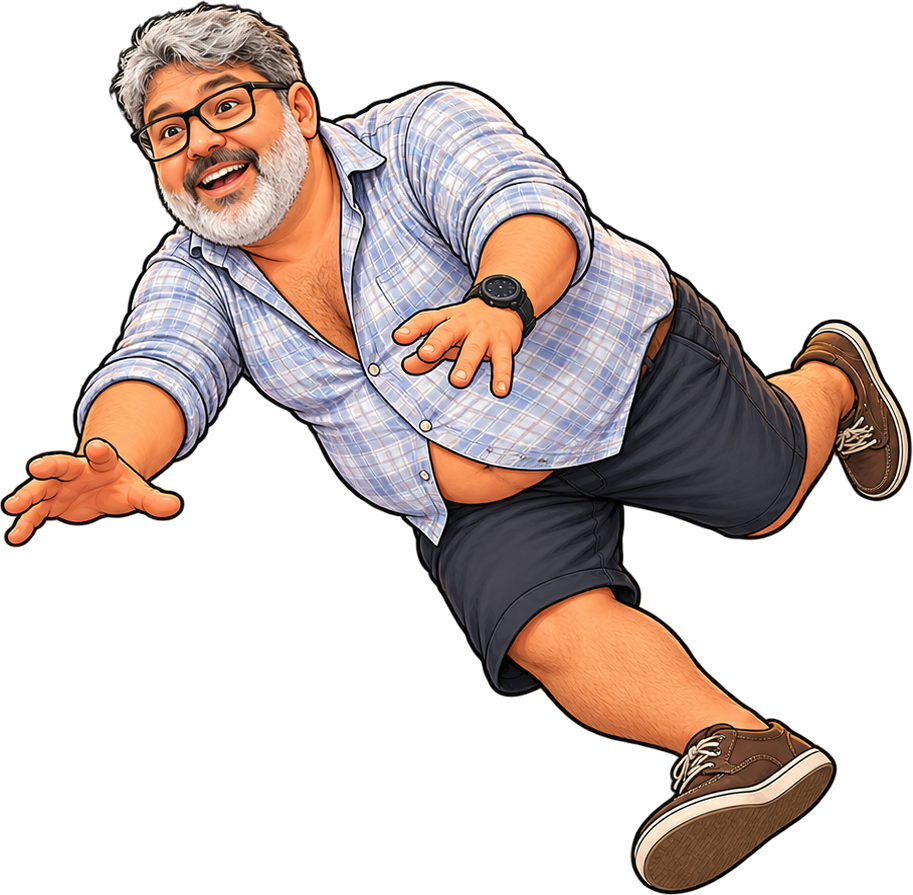
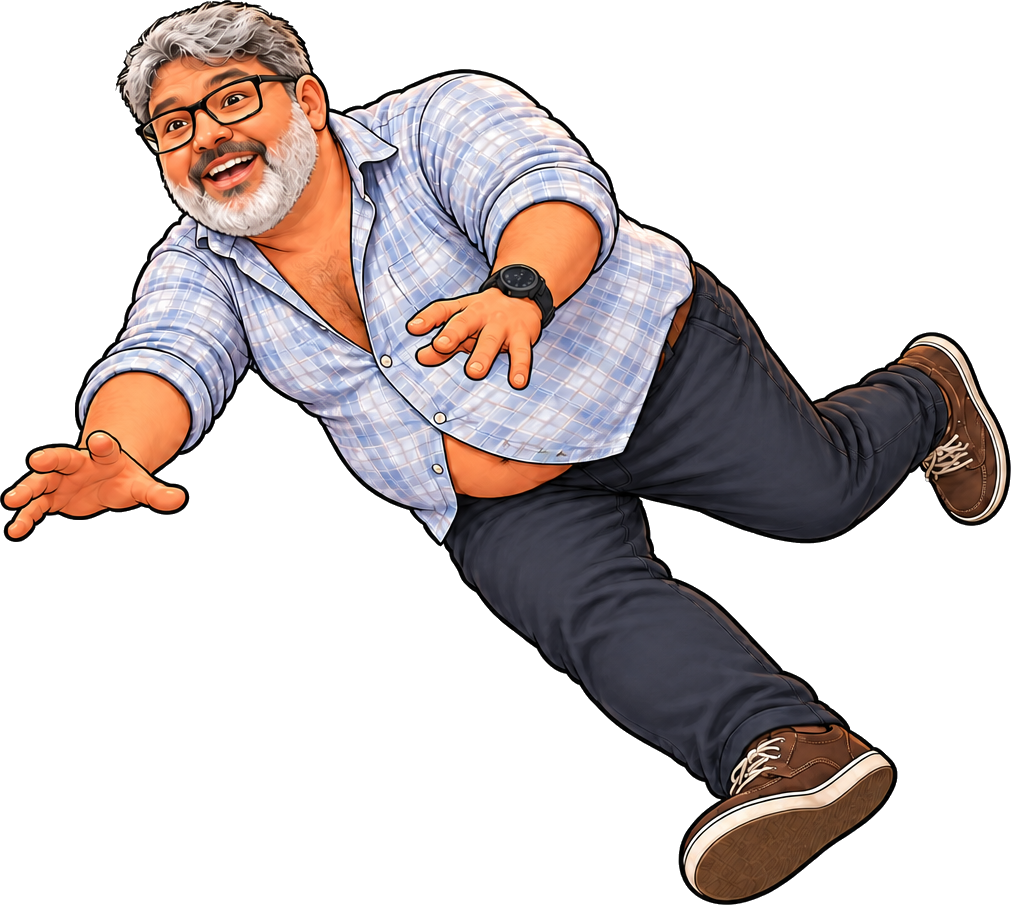
fix: normalize Ginaldo poses and walking direction

diff --git a/src/pages/BarGame.tsx b/src/pages/BarGame.tsx
@@ -158,7 +158,7 @@ export default function BarGame() {
     ginaldoWalker.src = "/bar-game/ginaldo-apoiador-sprites.png";
     walkerSpriteRefs.current.ginaldo = ginaldoWalker;
     ginaldoWalker.onload = () => {
-      walkerFramesRef.current.ginaldo = [1, 2, 3, 4].map((column) => isolatePerson(ginaldoWalker, column, 5, 0, 1.35));
+      walkerFramesRef.current.ginaldo = [0, 1, 2, 1].map((column) => isolatePerson(ginaldoWalker, column, 5, 0, 1.12));
     };
     const bottleSources = [
       "cafe-fino.png", "cafe-trufado.png", "canela.png", "chocolate.png", "limoncello.png",
@@ -449,7 +449,10 @@ export default function BarGame() {
       const drawLeaning = (alpha: number) => {
         const pose = drunkPoseRefs.current[selectedCharacter];
         if (!pose?.complete || !pose.naturalWidth) return;
-        const drawH = Math.min(height * 0.48, 390);
+        const baseDrawH = Math.min(height * 0.48, 390);
+        const naturalWidth = baseDrawH * (pose.naturalWidth / pose.naturalHeight);
+        const maxWidth = baseDrawH * 0.8;
+        const drawH = baseDrawH * Math.min(1, maxWidth / naturalWidth);
         const drawW = drawH * (pose.naturalWidth / pose.naturalHeight);
         ctx.globalAlpha = alpha;
         ctx.drawImage(pose, -drawW / 2, -drawH, drawW, drawH);
